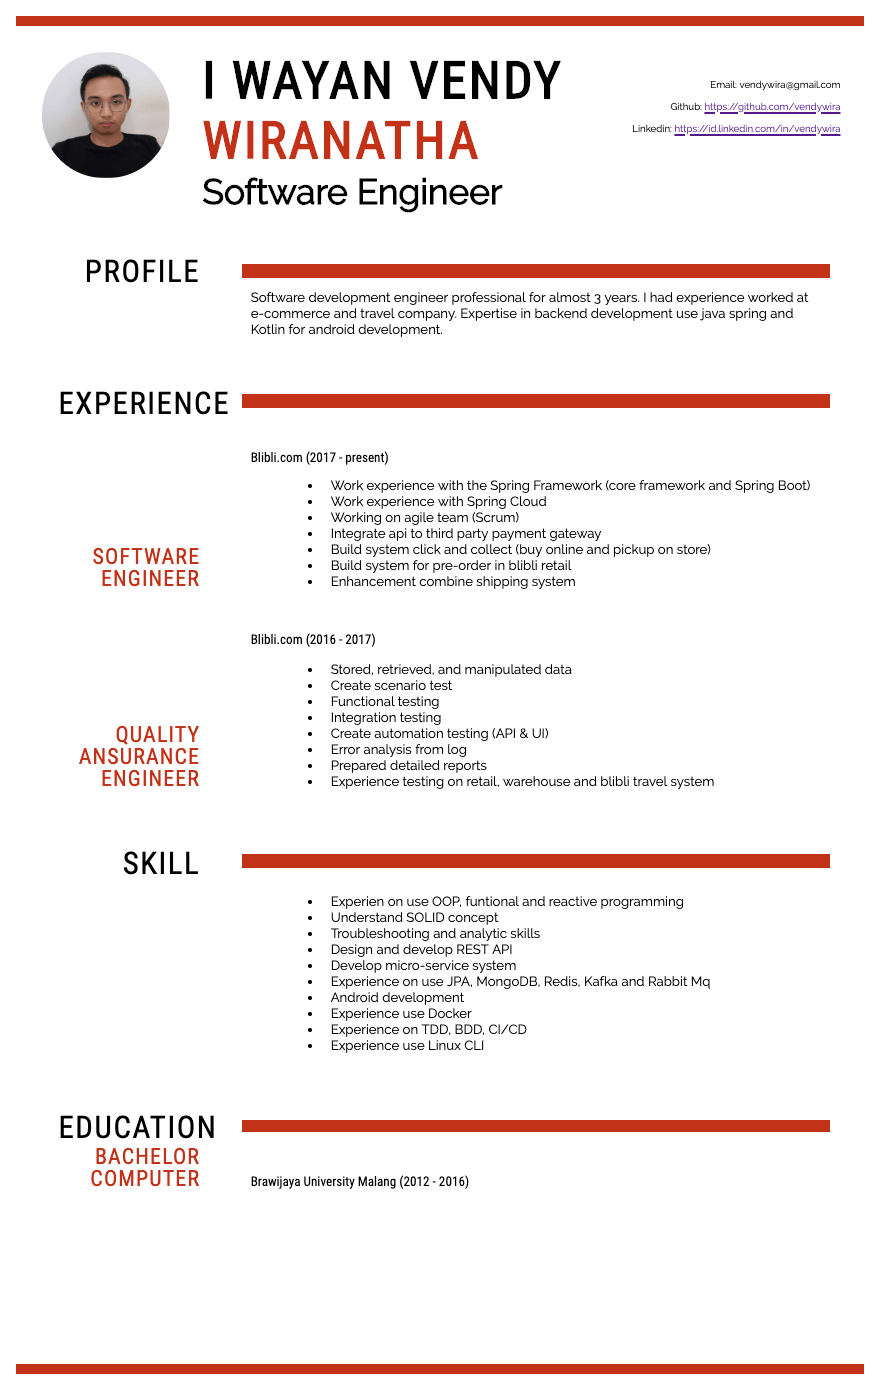
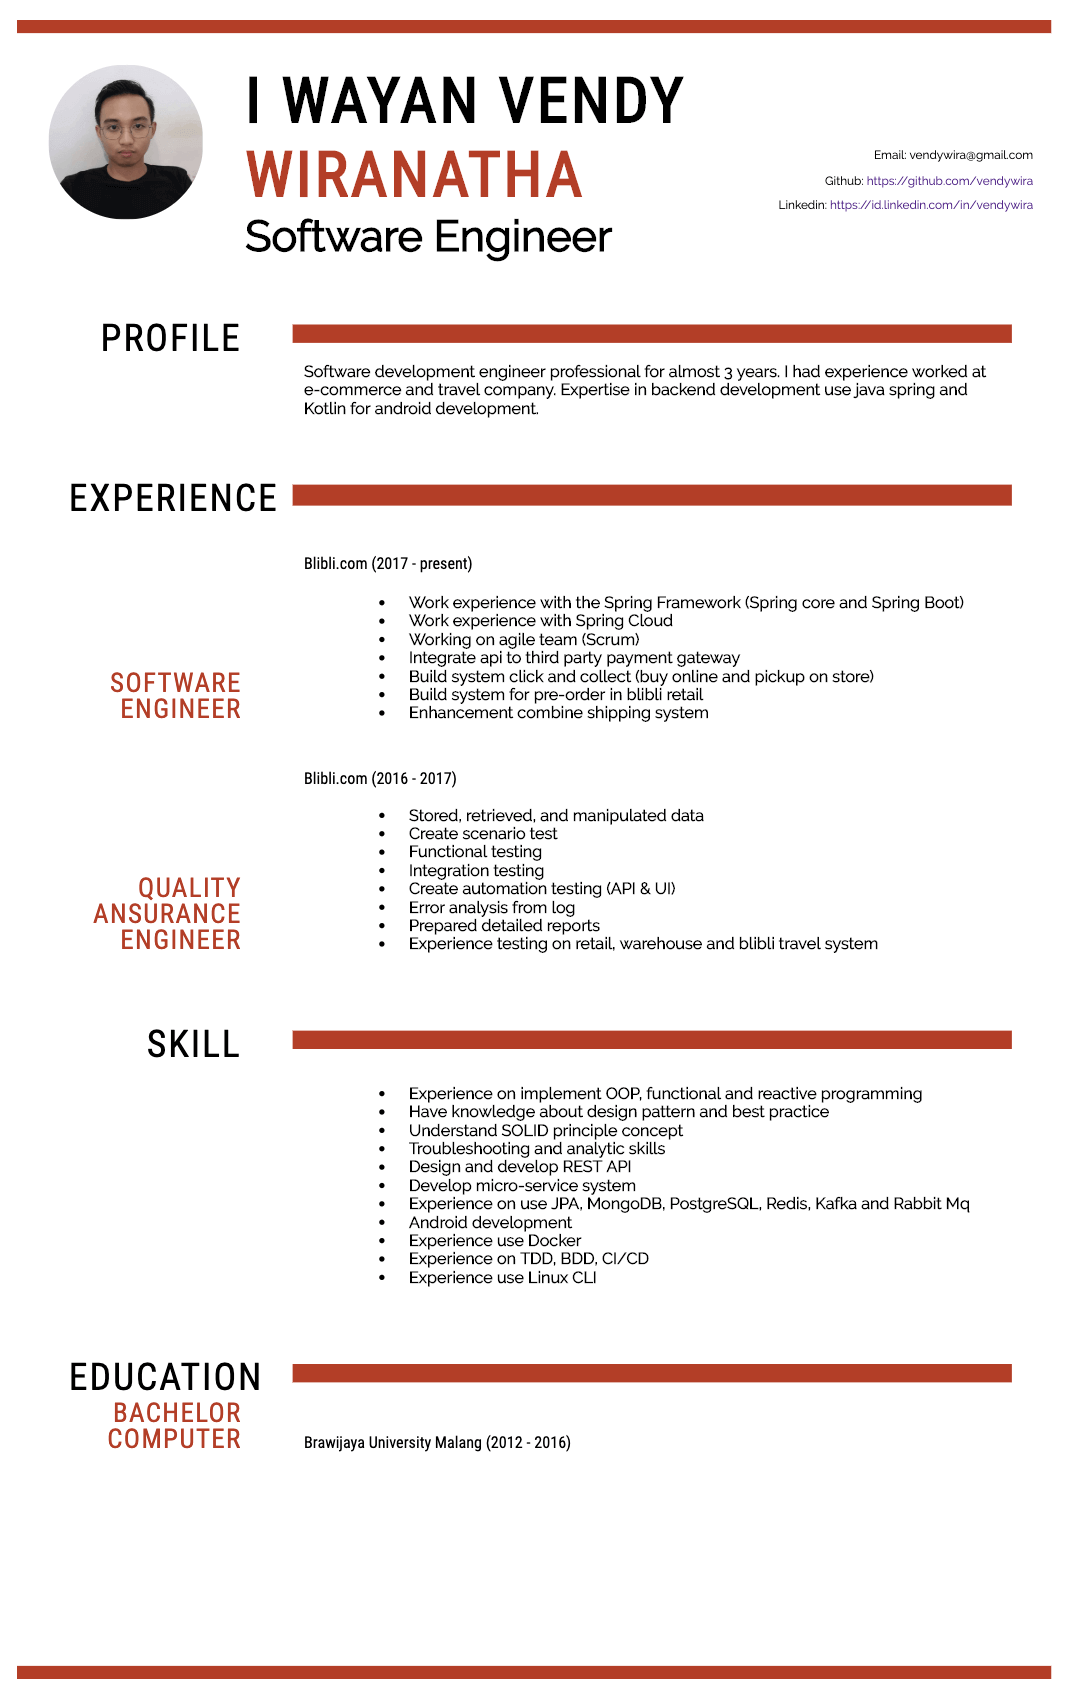
fix typo and resize image for fast load

diff --git a/src/index.html b/src/index.html
@@ -11,7 +11,7 @@
 <div class="grid grid__md-12">
   <div class="element-header__line">
   </div>
-  <img class="grid grid__md-2 element-header element-header__photo-profile" src="assets/img/photo.png" alt="photo profile">
+  <img class="grid grid__md-2 element-header element-header__photo-profile" src="assets/img/photo.jpg" alt="photo profile">
   <div class="grid grid__md-6 element-header__display_inline">
     <p class="element-header__text element-header__text--black">I Wayan Vendy</p>
     <p class="element-header__text element-header__text--red">Wiranatha</p>
@@ -46,7 +46,7 @@
       <div class="grid grid__md-8 element-body element-body__text__content">
         <p class="element-body element-body__text__title--bold">Blibli.com (2017 - present)</p>
         <ul>
-          <li>Work experience with the Spring Framework (core framework and Spring Boot)</li>
+          <li>Work experience with the Spring Framework (Spring core and Spring Boot)</li>
           <li>Work experience with Spring Cloud</li>
           <li>Working on agile team (Scrum)</li>
           <li>Integrate api to third party payment gateway</li>
@@ -78,12 +78,13 @@
       <div class="grid grid__md-2 element-body element-body__text__title element-body__text__title--red"></div>
       <div class="grid grid__md-8 element-body element-body__text__content">
         <ul>
-          <li>Experien on use OOP, funtional and reactive programming</li>
-          <li>Understand SOLID concept</li>
+          <li>Experience on implement OOP, functional and reactive programming</li>
+          <li>Have knowledge about design pattern and best practice</li>
+          <li>Understand SOLID principle concept</li>
           <li>Troubleshooting and analytic skills</li>
           <li>Design and develop REST API</li>
           <li>Develop micro-service system</li>
-          <li>Experience on use JPA, MongoDB, Redis, Kafka and Rabbit Mq</li>
+          <li>Experience on use JPA, MongoDB, PostgreSQL, Redis, Kafka and Rabbit Mq</li>
           <li>Android development</li>
           <li>Experience use Docker</li>
           <li>Experience on TDD, BDD, CI/CD</li>

diff --git a/src/assets/css/style.scss b/src/assets/css/style.scss
@@ -155,6 +155,7 @@ $singleGrid: 100/12;
       word-wrap: break-word;
       margin-block-start: 0px;
       margin-block-end: 0px;
+      font-weight: bolder;
     }
   }
 
@@ -170,6 +171,10 @@ $singleGrid: 100/12;
 
 .separate {
   margin-top: 5%;
+}
+
+a {
+  text-decoration: none;
 }
 
 .footer {

diff --git a/src/assets/css/style.css b/src/assets/css/style.css
@@ -119,6 +119,7 @@
   word-wrap: break-word;
   margin-block-start: 0px;
   margin-block-end: 0px;
+  font-weight: bolder;
 }
 .element-body__line {
   height: 1%;
@@ -131,6 +132,10 @@
 
 .separate {
   margin-top: 5%;
+}
+
+a {
+  text-decoration: none;
 }
 
 .footer {

diff --git a/README.md b/README.md
@@ -1,7 +1,7 @@
 # devc-basic-js
-Learn more about html, css and js basic with expert on devc community Jakarta.
+Learn more about basic html, css and js with expert on devc community Jakarta.
 
-[![screenshot cv](sc-cv.png "CV Online")](https://vendywira.github.io/devc-basic-js/src/index.html)
+[![screenshot cv](sc-cv.png "click to preview")](https://vendywira.github.io/devc-basic-js/src/index.html)
 
 ## Sass what is this??
 when stylesheets are getting larger, more complex,
@@ -17,4 +17,4 @@ sass --watch style.scss style.css
 for more detail about sass you can read their documentation at [sass guideline](https://sass-lang.com/guide)
 
 ## BEM (Block Element Modifiers)
-Convention for css class naming to more readable. For detail you can read on [bem official website](http://getbem.com/introduction/)
+Convention for class naming on css to readable. For more detail you can read on [bem official website](http://getbem.com/introduction/)
